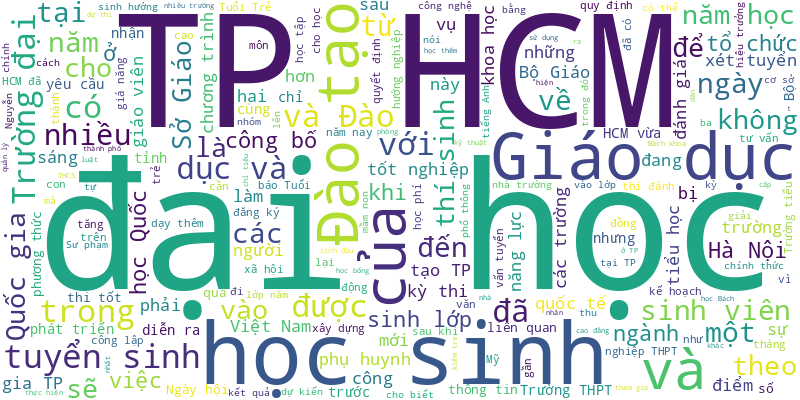
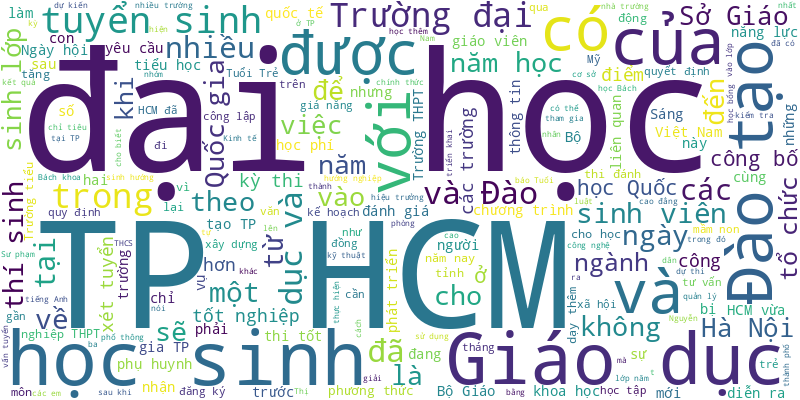
🍀 = 20%

diff --git a/README.md b/README.md
@@ -1,7 +1,22 @@
 # Tuoi Tre RSS 
 
 ## Giáo dục 
-- Chính phủ chính thức trình Quốc hội hai dự thảo nghị quyết về phổ cập giáo dục mầm non cho trẻ 3-5 tuổi; miễn, hỗ trợ học phí cho học sinh.
+- Bắt đầu từ ngày 24-5 đến 17h ngày 29-5, các trường đặc thù, các trường "nóng" ở TP.HCM sẽ nhận hồ sơ xét tuyển.
+- Hè này, Thảo cầm viên tổ chức hơn 20 hoạt động trải nghiệm giúp các em thiếu nhi rèn luyện kỹ năng trong môi trường thiên nhiên trong lành, hướng đến hạn chế sử dụng các thiết bị điện tử như tivi, điện thoại.
+- Nhiều đại biểu Quốc hội băn khoăn về chính sách miễn học phí được giao cho HĐND tỉnh thực hiện, sẽ gây thiếu công bằng khi tỉnh chi ít, tỉnh chi nhiều.
+- Cần tránh việc tổ chức lễ tri ân và trưởng thành rình rang nhằm tạo danh tiếng cho một ngôi trường, hoặc là đẩy cuộc đua ngầm về lối sống ảo, so bì nhau.
+- UBND TP.HCM vừa có văn bản về việc tháo gỡ các vướng mắc liên quan điều kiện thành lập trường tư thục trên địa bàn TP.HCM.
+- 'Khi nghị quyết được Quốc hội thông qua, chúng ta có quyền công bố rộng rãi, chắc chắn chúng ta là nước duy nhất trong ASEAN miễn học phí từ mầm non đến phổ thông'.
+- Nhiều cơ hội đang mở rộng cho học sinh, sinh viên Việt Nam đến học tại Nam Úc. Ngược lại, một số tổ chức giáo dục Nam Úc cũng rất quan tâm đến thị trường TP.HCM.
+- Đại biểu Quốc hội đề nghị cần có cơ chế cho phép phụ huynh tự nguyện không nhận chính sách hỗ trợ, miễn học phí.
+- Nhiều trường đại học quy định đăng ký xét tuyển riêng bắt buộc phải thực hiện mới đủ điều kiện xét tuyển, khiến thí sinh bối rối.
+- Bộ trưởng Nguyễn Kim Sơn cho biết hiện đang triển khai phương án dạy học buổi thứ 2 cho học sinh không thu phí, học phí và sẽ áp dụng từ năm học tới.
+- Năm học 2025 - 2026, Học viện Công nghệ bưu chính viễn thông dự kiến mức học phí 29,6 - 62,5 triệu đồng/năm.
+- Với hơn 1.000 tài khoản đăng ký tham gia, cuộc thi được kỳ vọng sẽ kết nối với hệ sinh thái khởi nghiệp đổi mới của TP.HCM.
+- Cả nước có 28.862 tiến sĩ đang làm giảng viên cơ hữu ở các trường đại học. Bình quân mỗi trường có 119 tiến sĩ.
+- Hàng trăm học sinh lớp 12 tại các tỉnh, thành Tây Nam Bộ nhận học bổng sớm từ Trường Đại học Kinh tế - Tài chính TP.HCM (UEF).
+- Tuyển chọn khoảng 300 ứng viên để đào tạo, bồi dưỡng trong và ngoài nước theo lộ trình trở thành giảng viên, nhà khoa học chất lượng cao.
+- Chính phủ trình Quốc hội hai dự thảo nghị quyết về phổ cập giáo dục mầm non cho trẻ 3-5 tuổi; miễn, hỗ trợ học phí từ năm học 2025-2026.
 - Ngày 22-5, Đại học Bách khoa Hà Nội công bố phương án quy đổi mức điểm chuẩn tương đương giữa 3 phương thức.
 - Trong hành trình chinh phục tri thức, không phải ai cũng may mắn khởi đầu từ những điều kiện thuận lợi. Nhưng ở đâu có ý chí, ở đó luôn có hy vọng.
 - Lễ tốt nghiệp tại Royal School là ngày các em chính thức trưởng thành, mang theo yêu thương của ba mẹ, thầy cô, bạn bè. Từ đây, Royal-ers kiêu hãnh bước ra thế giới với tri thức, bản lĩnh được vun đắp từ ngôi trường hạnh phúc.
@@ -988,24 +1003,86 @@ Trường đại học Văn Lang được QS xếp hạng top 51-100 thế giớ
 - Chủ đề nóng "không dạy thêm đối với học sinh tiểu học" trong thông tư 29 là vấn đề bàn luận sôi nổi của các em học sinh tiểu học tại quận Gò Vấp, TP.HCM.
 - Chiều 22-2, Đại học Quốc gia TP.HCM tổ chức tọa đàm "Liên kết đại học - địa phương - doanh nghiệp: Hợp lực vì sự phát triển kinh tế và xã hội", với sự tham gia của nhiều lãnh đạo bộ ngành, địa phương, doanh nghiệp và hàng trăm giảng viên, sinh viên.
 - Nhiều học sinh lớp 10, 11 có dự định đổi môn học để chọn tổ hợp môn xét tuyển đại học khác. Điều này liệu có ảnh hưởng đến việc xét tuyển đại học, cao đẳng?
-- Khi nào Bộ Giáo dục và Đào tạo công bố quy chế tuyển sinh đại học năm 2025? Quy chế sẽ có điểm mới quan trọng nào đáng lưu ý?
-- Tại Chương trình tư vấn tuyển sinh - hướng nghiệp 2025 do báo Tuổi Trẻ tổ chức ở Phú Yên, gian tư vấn của các trường thu hút đông học sinh đến nghe trực tiếp về chương trình đào tạo, cơ hội việc làm...
-- Một sinh viên năm nhất Trường đại học Kinh tế - Luật (Đại học Quốc gia TP.HCM) vừa nhận lệnh đi nghĩa vụ quân sự,  gia đình phải làm đơn xin tạm dừng học.
-- Khởi đầu năm 2025, sinh viên ngành Quản trị khách sạn của SIU đã có một hành trình kiến tập đặc biệt tại các resort cao cấp ở Mũi Né (TP. Phan Thiết, Bình Thuận).
-- Việt Nam sẽ lần đầu tiên đăng cai Hội nghị quốc tế về trí tuệ nhân tạo và bán dẫn (AISC 2025) - sự kiện hàng đầu thế giới về công nghệ AI và bán dẫn, diễn ra từ 12 đến 16-3 tại Hà Nội và Đà Nẵng.
-- Trong sáng và chiều nay 22-2, chương trình tư vấn tuyển sinh hướng nghiệp 2025 do báo Tuổi Trẻ tổ chức diễn ra tại Phú Yên và Khánh Hòa.
-- Việc Trường Quốc tế Saigon Pearl đóng cửa vì tuyển sinh khó khăn đã đặt ra câu hỏi: mô hình trường quốc tế có bước vào giai đoạn 'thoái trào'?
-- Năm nay, Học viện Cảnh sát nhân dân được Bộ Công an giao tuyển 530 sinh viên đại học chính quy và 150 sinh viên đào tạo học văn bằng 2 nghiệp vụ công an, từ nguồn các thí sinh đã có bằng tốt nghiệp trình độ đại học.
-- Sinh viên khối ngành truyền thông đa phương tiện Trường đại học Nguyễn Tất Thành thực hành tác nghiệp tại chợ Bến Thành.
-- Theo nhiệm vụ quy hoạch chi tiết, Trường đại học Ngoại thương cơ sở Bắc Ninh sẽ nằm ở thành phố Từ Sơn với quy hoạch khoảng 33,66 ha.
-- Đại học Huế có nhiều chính sách hỗ trợ sinh viên được tuyển theo diện xuất sắc, cũng như những sinh viên có hoàn cảnh, điều kiện khó khăn.
-- Trường đại học Sư phạm TP.HCM đã chốt phương án tuyển sinh năm 2025: tiếp tục sử dụng kết quả học tập 3 năm THPT để xét tuyển.
-- Chiều 21-2, Trường phổ thông Năng khiếu (Đại học Quốc gia TP.HCM) đã công bố cấu trúc đề thi và đề thi minh họa - kỳ thi tuyển sinh lớp 10 năm học 2025-2026.
-- Liên quan đến vụ 154 học sinh tại Quảng Bình vẫn chưa trở lại trường từ sau Tết vì cho rằng điểm trường chính xa, chính quyền địa phương đã đưa ra nhiều giải pháp nhưng phụ huynh vẫn chỉ muốn mở cửa trường cũ để cho con em học.
-- Sau khi xem chứng cứ, Phòng Giáo dục và Đào tạo huyện Thoại Sơn, tỉnh An Giang yêu cầu ‘xem xét xử lý sai phạm’ thầy giáo bị tố dâm ô học sinh lớp 5.
 ![Edu](Edu.png)
 ## Thời Sự 
-- Chính phủ chính thức trình Quốc hội hai dự thảo nghị quyết về phổ cập giáo dục mầm non cho trẻ 3-5 tuổi; miễn, hỗ trợ học phí cho học sinh.
+- Theo phản ánh của người dân, nhiều xe máy vẫn dừng chờ đèn đỏ trên vạch mắt võng dành cho xe rẽ phải, có người tỏ thái độ dửng dưng khi được người dân nhắc nhở.
+- Cảnh sát hình sự Công an tỉnh Quảng Trị kể về hành trình truy vết và bắt gọn nghi phạm giết người sau 26 giờ.
+- Để kịp thời tiến độ sắp xếp bộ máy, đến ngày 30-5, các địa phương sẽ tổ chức lấy ý kiến và công nhận việc đổi tên khu phố, ấp.
+- UBND TP.HCM đã xây dựng phương án và lộ trình bố trí, sắp xếp cán bộ, công chức, viên chức, người lao động sau sáp nhập.
+- Với việc ngày càng nhiều thủ tục hành chính công được thực hiện hoàn toàn trên môi trường mạng, chữ ký số cũng ngày càng được nhiều người dân, doanh nghiệp sử dụng.
+- Xe khách biển số tỉnh Lâm Đồng đang chạy trên quốc lộ 1 (địa phận tỉnh Khánh Hòa) bất ngờ cháy dữ dội khiến nhiều người phải tháo chạy.
+- Ổ mây dông từ Trung Quốc phát triển gây mưa to tại các tỉnh Hà Giang, Lào Cai, Tuyên Quang, Bắc Kạn từ đêm qua đến sáng nay.
+- Thông tin TP.HCM sẽ thu phí tiền rác theo kilogam (kg) đang tạo ra nhiều băn khoăn. Nhiều người đang hiểu chưa đúng tinh thần này nên nghi ngại: tôi không có mặt ở nhà làm sao cân, hoặc lo người khác bỏ rác qua nhà mình…
+- Tin tức đáng chú ý: Lắp camera, vệ sinh toàn bộ hầm chui trước bến xe Miền Đông mới để tránh ngập; Bốn tháng, gần 17.700 tỉ đồng chậm đóng bảo hiểm xã hội, y tế, thất nghiệp...
+- Hôm nay 23-5, thời tiết Bắc Bộ có mưa to đến rất to. Nam Bộ mưa to về chiều, Trung Bộ phía bắc mưa to, phía nam nắng nóng.
+- Liên quan việc Công ty cổ phần Cấp thoát nước Quảng Nam áp dụng đơn giá nước sạch mới trong tháng 5, giá nước tăng, tỉnh Quảng Nam yêu cầu kiểm tra.
+- Nam sinh 20 tuổi ở Hà Nội bị lừa 500 triệu đồng sau khi nhận cuộc gọi video từ kẻ giả danh công an, dọa liên quan vụ án ma túy, đọc lệnh bắt online.
+- Tổng Bí thư Tô Lâm yêu cầu không để xảy ra tình trạng cán bộ vừa mới bổ nhiệm lại bị xử lý kỷ luật hoặc truy cứu trách nhiệm hình sự.
+- Lực lượng chức năng đã khoanh vùng, bảo vệ hiện trường nơi người dân phát hiện một bộ xương người tại vực sâu trên tuyến đèo Bảo Lộc, tỉnh Lâm Đồng.
+- Công dân phản ánh, kiến nghị Công an tỉnh Khánh Hòa và UBND tỉnh làm rõ thái độ của cán bộ, chiến sĩ Công an phường Ninh Hà, thị xã Ninh Hòa khi người dân đến làm thủ tục VNeID tại trụ sở công an phường này.
+- Trong cuộc họp giữa hai tỉnh Cà Mau và Bạc Liêu bàn về các phương án sau khi hợp nhất, một số đại biểu đề xuất giữ nguyên trạng 7 công ty nhà nước của 2 tỉnh, trong đó có Công ty Xổ số kiến thiết Cà Mau và Bạc Liêu.
+- Tối 22-5, Cơ quan cảnh sát điều tra Công an tỉnh Đồng Nai thông tin đã bắt khẩn cấp ông Nguyễn Thành Dân - chủ tịch UBND phường Trảng Dài, TP Biên Hòa - cùng 2 cán bộ, công chức phường.
+- Nhiều dự án năng lượng tái tạo ở Ninh Thuận chậm tiến độ do vướng mắc về khung giá điện, đặc biệt với các dự án điện gió và thủy điện tích năng.
+- Ông Nguyễn Quốc Hận, phó trưởng Đoàn đại biểu Quốc hội tỉnh Cà Mau, chỉ ra bất cập khi tồn tại lượng lớn diện tích đất hoang hóa tại các địa phương.
+- Theo thống kê của Trung tâm Kiểm soát bệnh tật TP.HCM, số ca mắc và nhập viện do tay chân miệng đang gia tăng nhanh chóng, cảnh báo nguy cơ dịch.
+- Bài học từ nhiều vụ việc khiến nhiều cán bộ bị xử lý, kỷ luật, kể cả xử lý hình sự, Thủ tướng cho rằng có nguyên nhân từ việc cấp trên 'ôm' cả những việc cụ thể mà không phân cấp, phân quyền cho cấp dưới.
+- Lễ tang nguyên Chủ tịch nước Trần Đức Lương được tổ chức theo nghi thức Quốc tang, diễn ra từ ngày 24 đến 25-5.
+- Nhiều đại biểu Quốc hội băn khoăn về chính sách miễn học phí được giao cho HĐND tỉnh thực hiện, sẽ gây thiếu công bằng khi tỉnh chi ít, tỉnh chi nhiều.
+- Giữa biên giới xa xôi, nơi “phên giậu” Tổ quốc, hình ảnh người chiến sĩ công an lặng lẽ vượt núi, băng suối, cùng dân dựng nhà, tuyên truyền pháp luật, vận động từ bỏ tà đạo đã trở nên thân thuộc.
+- Sau khi nhà ga T3 Tân Sơn Nhất và đường nối Trần Quốc Hoàn đưa vào khai thác, giao thông khu vực đã cơ bản thông thoáng. Tuy nhiên nhiều người dân vẫn đi sai làn, mất an toàn giao thông.
+- Bước vào kỷ nguyên vươn mình, nhiều lãnh đạo Bộ Y tế cho rằng các bệnh viện phải áp dụng những tiêu chuẩn chất lượng quốc tế để đạt được sự an toàn, hài lòng cho người bệnh.
+- Vành đai 3 TP.HCM qua Long An đang thành hình rõ nét, đáng chú ý đoạn nút giao Mỹ Yên - điểm kết nối ba tuyến cao tốc lớn.
+- Từ ngày 25-5, hai đoàn tàu liên vận chở khách từ ga Gia Lâm (Hà Nội) đến ga Nam Ninh (Trung Quốc) và ngược lại. Đến ngày 27-5, sẽ khai thác thêm tàu từ ga Gia Lâm (Hà Nội) đến ga Bắc Kinh (Trung Quốc).
+- Hơn 100 KOL đăng ký lớp bồi dưỡng nghiệp vụ bán hàng trên mạng do Trung tâm Báo chí TP.HCM phối hợp với Công an TP, Cục Thuế TP, Sở Công Thương, Sở Y tế, Sở An toàn thực phẩm tổ chức.
+- Bộ Xây dựng yêu cầu tỉnh Đắk Lắk khẩn trương hoàn tất toàn bộ dự án đội vốn, chậm tiến độ trước ngày 30-6, nhằm kịp thời đưa vào khai thác trước mùa mưa.
+- Chiều 22-5, cơn mưa rất lớn đổ xuống một số khu vực ở Đồng Nai khiến nhiều tuyến đường ở huyện Nhơn Trạch và thành phố Long Khánh ngập sâu.
+- Tỉnh ủy Quảng Trị vừa ra quyết định thành lập Báo và Đài phát thanh - truyền hình tỉnh Quảng Trị, trên cơ sở hợp nhất 2 cơ quan từ ngày 1-6.
+- Cục Cảnh sát quản lý hành chính về trật tự xã hội cho biết từ hôm nay 22-5, người dân đã có thể đăng ký chứng thư chữ ký số trên ứng dụng VNeID.
+- Xe tải chạy trên đường Đỗ Mười, phường Tam Bình, TP Thủ Đức (TP.HCM) tông xe máy khiến hai người tử vong, rồi tiếp tục lao tới tông hai ô tô và xe máy khác mới dừng lại.
+- Nếu bị gọi nhá máy liên tục, có dấu hiệu lừa đảo hoặc gây thiệt hại tinh thần, vật chất, người dân nên trình báo cơ quan công an địa phương để được hỗ trợ, xử lý theo quy định.
+- 'Khi nghị quyết được Quốc hội thông qua, chúng ta có quyền công bố rộng rãi, chắc chắn chúng ta là nước duy nhất trong ASEAN miễn học phí từ mầm non đến phổ thông'.
+- Bộ Y tế đang dự thảo thông tư hướng dẫn chức năng, nhiệm vụ của trạm y tế xã, phường tương tự một bệnh viện thu nhỏ.
+- Viện Nghiên cứu phát triển TP.HCM cho rằng bên cạnh các chính sách hỗ trợ, TP.HCM nên kiến nghị Trung ương miễn thuế VAT với tài xế công nghệ chạy xe điện trong vòng 2 năm, để khuyến khích chuyển xe xăng sang xe điện.
+- Công an tỉnh Kiên Giang vừa phát hiện một cơ sở cầm cố tài sản ở Phú Quốc không có giấy phép hoạt động, cho vay và tàng trữ nhiều dao tự chế.
+- UBND tỉnh Bình Định vừa ra quyết định chấm dứt dự án kè chống xói lở Tam Quan sau nhiều lần hư hỏng, thiệt hại nặng do sóng biển.
+- Sở Tài chính Khánh Hòa đã có phương án bố trí trụ sở làm việc, nhà ở công vụ, phương tiện đi lại cho cán bộ sau khi sáp nhập hai tỉnh Khánh Hòa và Ninh Thuận.
+- Tại 2 gói thầu xây dựng trụ sở UBND xã và đường giao thông, Thanh tra tỉnh Quảng Trị kết luận có nhiều vi phạm như tổ trưởng tổ chuyên gia chấm thầu cho công ty bố vợ, bên dự thầu cung cấp hồ sơ giả…
+- Đại biểu Quốc hội đề nghị cần có cơ chế cho phép phụ huynh tự nguyện không nhận chính sách hỗ trợ, miễn học phí.
+- TP Tuy Hòa gắn biển "Quảng trường Phú Yên" cho quảng trường 1 Tháng 4. Việc đổi tên đã được tỉnh bàn bạc, thống nhất trước đó.
+- Bộ trưởng Nguyễn Kim Sơn cho biết hiện đang triển khai phương án dạy học buổi thứ 2 cho học sinh không thu phí, học phí và sẽ áp dụng từ năm học tới.
+- Theo Sở An toàn thực phẩm TP.HCM, khi đi kiểm tra các quán bán lòng se điếu tại TP.HCM, các nơi đều thông báo đã hết hàng.
+- Chi cục Quản lý thị trường TP.HCM đã có văn bản chỉ đạo đội quản lý thị trường thẩm tra, xác minh chi nhánh Công ty cổ phần Thương mại và Dịch vụ Hà Linh Official theo đơn phản ánh. Tuy nhiên đến nay chưa đủ cơ sở để cung cấp thông tin chính thức.
+- Chính quyền địa phương kiểm tra một cơ sở ở huyện Quỳnh Lưu, Nghệ An quảng cáo chữa ung thư bằng cách uống nước lọc ion kiềm.
+- Nguyên Chủ tịch nước Trần Đức Lương luôn căn dặn chính quyền phải gần dân, sát dân, thương dân, lo cho dân từ những việc nhỏ.
+- 2-3 tuần gần đây, số ca mắc COVID-19 có tăng lên. Tuy nhiên chủng Omicron XEC không phải là biến chủng mới, thuộc nhóm nguy cơ thấp.
+- Ngày 22-5, Bộ Công an phối hợp tỉnh Bạc Liêu tổ chức khánh thành và bàn giao 700 căn nhà cho hộ nghèo, cận nghèo và khó khăn tại tỉnh này.
+- Nhiều doanh nghiệp khai thác cát tại Đắk Nông bị phát hiện tự ý mở đường phụ, dựng rào chắn camera, có dấu hiệu trốn thuế.
+- Ngày 22-5, Bệnh viện Đa khoa trung ương Quảng Nam cho hay hiện đang điều trị cho 2 người, 1 người khác chuyển viện Bệnh viện Đà Nẵng.
+- Đề xuất tăng mức phạt vi phạm giao thông tối đa từ 75 triệu đồng lên 200 triệu đồng của đại biểu Quốc hội thu hút nhiều ý kiến bạn đọc phản hồi.
+- Bí thư Thành ủy TP.HCM Nguyễn Văn Nên chủ trì phiên họp thứ nhất của Ban Chỉ đạo phát triển hệ thống mạng lưới đường sắt đô thị TP.HCM.
+- Sau khi sắp xếp xã mới, UBND xã ở Đà Nẵng có tối đa 4 phòng chuyên môn. Bố trí 1 công chức đang công tác tại thanh tra quận, huyện.
+- Dự án chợ đầu mối Hòa Phước (TP Đà Nẵng) với tổng mức đầu tư hơn 272 tỉ đồng bước vào giai đoạn đấu thầu xây lắp.
+- Biến chủng Omicron XEC hiện đang lây lan ở nhiều nước trên thế giới, làm gia tăng số ca mắc COVID-19 mới.
+- Sáng 22-5, Phòng cảnh sát giao thông Công an tỉnh Đắk Lắk tổ chức kỳ sát hạch, cấp giấy phép lái ô tô hạng B cho 202 học viên.
+- Ông Trần Đức Lương là nhà lãnh đạo kỹ trị, không ưa hào nhoáng, không chạy theo hình thức, mà chọn cách sống, làm việc thầm lặng, bền bỉ.
+- Việc bỏ hình phạt tử hình tội vận chuyển trái phép chất ma túy có thể ảnh hưởng đến tính răn đe.
+- Thành phố Hội An đang chạy đua hoàn thiện dự án phòng cháy, chữa cháy trị giá 200 tỉ đồng, áp dụng nhiều công nghệ, đi tới từng di tích.
+- Những ngày gần đây, trên mạng xã hội xuất hiện hình ảnh nền đá tại nhà ga T3 Tân Sơn Nhất vẫn còn dang dở dù nhà ga đã đưa vào khai thác.
+- Thanh tra Bộ Công an, Bộ Quốc phòng và Ngân hàng Nhà nước giữ lại phù hợp với tính đặc thù, mô hình tổ chức ngành dọc của các ngành này.
+- Họ ký vào đơn vay vốn được lập khống đã vô tình tạo điều kiện để cán bộ văn phòng giao dịch Quỹ phát triển phụ nữ Hương Khê lợi dụng.
+- Dù đã có chủ trương đầu tư hơn 93 tỉ đồng để chống ngập, dự án xây đường Đặng Thùy Trâm (quận Bình Thạnh) vẫn chưa được khởi động.
+- Thợ lặn được triển khai tìm kiếm 2 cháu mất tích trong vụ 7 học sinh đi tắm suối bị lũ cuốn ở Quảng Ninh.
+- Qua đánh giá của Nghệ An liên quan việc hàng ngàn héc ta lúa lép, không kết hạt cao có 10 giống lúa nằm ngoài cơ cấu.
+- Anh T. nhảy từ trên cầu vượt xuống đường cao tốc, bị nhiều ô tô cán qua người, thiệt mạng tại chỗ.
+- Sau gần ba ngày "mất tích", gia đình đã tìm thấy nữ sinh lớp 9 ở Quảng Bình tại Hà Nội trong tình trạng sức khỏe và tinh thần ổn định.
+- Cục trưởng Cục Trồng trọt và Bảo vệ thực vật thông tin về kiểm soát kim loại nặng trong sầu riêng, nhất là dư lượng chất vàng O, cadimi.
+- Theo Bộ Công Thương, Việt Nam và Mỹ đã đạt tiến bộ tích cực, xác định các nhóm vấn đề đạt được đồng thuận hoặc quan điểm đã gần nhau.
+- Tại sao chúng ta không có những quy định thoáng hơn để làm sao có thể thanh tra đột xuất được nhiều hơn là thanh tra kế hoạch.
+- Đi lại qua hầm sông Sài Gòn (nối TP Thủ Đức và quận 1, TP.HCM), tài xế cần chú ý bảng thông báo tốc độ ở hai đầu hầm.
+- Nha Trang đang lấy ý kiến để “điều chỉnh cục bộ” đồ án điều chỉnh quy hoạch chung TP này tại 4 khu vực.
+- Chỉ số KPI được xem là một phương pháp nhằm lượng hóa công việc để chấm điểm và đánh giá hiệu quả hoạt động.
+- Theo Luật Bảo hiểm xã hội 2024, sẽ có mức hưởng bảo hiểm xã hội một lần mới từ ngày 1-7-2025.
+- Chính phủ trình Quốc hội hai dự thảo nghị quyết về phổ cập giáo dục mầm non cho trẻ 3-5 tuổi; miễn, hỗ trợ học phí từ năm học 2025-2026.
 - Buôn Ma Thuột đặc biệt chú trọng xây dựng Đảng và nâng cao chất lượng đội ngũ cán bộ là chìa khóa then chốt thúc đẩy sự phát triển bền vững.
 - Chiếc ô tô 7 chỗ biển số tỉnh Bến Tre chạy trên cầu Rạch Miễu bất ngờ lấn sang làn xe máy khiến người đi đường suýt bị tai nạn.
 - Mức phạt hiện nay đã đủ mạnh? Mức phạt các hành vi bất chấp pháp luật đã đủ để răn đe?
@@ -1928,83 +2005,6 @@ Trường đại học Văn Lang được QS xếp hạng top 51-100 thế giớ
 - Lần đầu tiên Hải Phòng dẫn đầu cả nước về chỉ số năng lực cạnh tranh cấp tỉnh (PCI). Hai đô thị lớn nhất cả nước là Hà Nội, TP.HCM thuộc top 30 địa phương có chất lượng điều hành kinh tế tốt nhất.
 - Qua thanh tra 18 công trình xây dựng ở huyện Ngọc Hiển, Thanh tra tỉnh Cà Mau phát hiện 8 công trình có sai sót về khối lượng và thủ tục đầu tư.
 - Ngày 6-5, theo thông tin từ Bệnh viện Đa khoa trung ương Cần Thơ, hiện tại bệnh nhân Nguyễn Bảo Trung (tài xế xe tải, liên quan vụ tai nạn ở Trà Ôn, tỉnh Vĩnh Long) vẫn chưa tỉnh táo, đang tiếp tục được theo dõi tại khu hồi sức sau mổ.
-- Bộ trưởng Nguyễn Kim Sơn nêu rõ quan điểm với một số địa phương có điều kiện rất nên khuyến khích dành thêm nguồn lực để hỗ trợ nhà giáo.
-- Sau vụ việc ‘nộp đủ tiền mới cấp cứu’, nhiều người cho biết từng gặp khó khăn khi ứng viện phí, bên cạnh đó một số bạn đọc bày tỏ nên cảm thông với nhân viên y tế.
-- Liên quan vụ việc một nhân viên bảo vệ rừng ở Vườn quốc gia Cát Tiên bị bò tót húc chết, có ý kiến cho rằng cần trang bị thêm kỹ năng, thiết bị kỹ thuật để xử lý các tình huống xấu.
-- Tuyến đường sắt kết nối từ trung tâm đi đến khu đô thị lấn biển Cần Giờ có chiều dài khoảng 48,7km.
-- Cục Thống kê cho biết số doanh nghiệp rút lui khỏi thị trường trên cả nước 4 tháng đầu năm nay khoảng 96.500 doanh nghiệp, cao hơn rất nhiều số doanh nghiệp gia nhập thị trường khoảng 89.900 doanh nghiệp.
-- UBND tỉnh Đắk Lắk đã chi gần 8,5 tỉ đồng để hỗ trợ cho 6 nguyên lãnh đạo sở, trong đó một người nhận hơn 2,2 tỉ đồng tiền chế độ khi nghỉ hưu trước tuổi.
-- Hiện tỉnh Sóc Trăng có trên 7.000 học viên đang đợi thi sát hạch lấy bằng lái xe, trong đó có 4.000 học viên xe gắn máy và trên 3.000 học viên xe ô tô.
-- Đại biểu Trần Khánh Thu cho rằng cần nhìn nhận vấn đề học thêm xuất phát từ nhu cầu học tập của xã hội, học sinh và phụ huynh, chứ không hẳn tất cả quy cho giáo viên ép buộc trong vấn đề dạy thêm.
-- Sáng nay thời tiết TP.HCM có mưa sớm, nhiều nơi mưa như trút lúc 9h30 sáng.
-- Trung tâm Bảo tồn di tích cố đô Huế đã có thông báo xin lỗi, mong khán giả cảm thông sau sự cố bắn súng thần công rơi ‘lạc’ vào vị trí khán giả hôm 3-5.
-- Theo Thủ tướng, nhiệm vụ, giải pháp tập trung hiện nay là để hoàn thành mục tiêu đạt mức tăng trưởng 8% trở lên, phát triển nhanh, bền vững, toàn diện, bao trùm.
-- Mẹ Việt Nam anh hùng Lê Thị Trị, con gái cả của Mẹ Việt Nam anh hùng Nguyễn Thị Thứ qua đời, hưởng thọ 106 tuổi.
-- Từ ngày 1-7-2025, người trên 60 tuổi đến tuổi nghỉ hưu nhưng chưa đủ số năm đóng bảo hiểm xã hội sẽ được nhận trợ cấp hằng tháng.
-- Một dự án nghiên cứu không đạt được kết quả như kỳ vọng, tổ chức nghiên cứu sẽ không phải chịu trách nhiệm bồi thường như trước và được miễn trừ trách nhiệm dân sự.
-- Nguyễn Thiên Hương Jenny, Nguyễn Đức Hiếu Johnny vừa gia tăng số lượng cổ phiếu tại ACB, qua đó tăng tỉ lệ sở hữu tại ngân hàng này. Cả hai đều là con của bà Ngô Thu Thúy - chủ tịch HĐQT Công ty cổ phần Âu Lạc.
-- Dự kiến từ hôm nay (6-5) bắt đầu lấy ý kiến nhân dân về việc sửa đổi, bổ sung một số điều của Hiến pháp năm 2013 và sẽ kéo dài trong khoảng một tháng.
-- Chính phủ đã hoàn thành rà soát và đang đề xuất Bộ Chính trị, Quốc hội tháo gỡ vướng mắc cho trên 2.200 dự án với tổng vốn gần 5,9 triệu tỉ đồng (tương đương khoảng 235 tỉ USD) và tổng quy mô sử dụng đất khoảng 347.000ha.
-- Dự thảo nghị quyết sửa đổi, bổ sung một số điều của Hiến pháp năm 2013 đề xuất Thủ tướng chỉ định chủ tịch, phó chủ tịch UBND các tỉnh, TP sau sáp nhập.
-- Người dân có thể góp ý trực tiếp về sửa Hiến pháp trên VNeID, Cổng thông tin điện tử Quốc hội, Chính phủ hoặc gửi ý kiến bằng văn bản đến các cơ quan có trách nhiệm tổng hợp ý kiến.
-- 23 tuổi, Hậu 'Pháo' bắt đầu thành lập doanh nghiệp với quy mô ban đầu chỉ ở cấp huyện. Chỉ bốn năm sau, Hậu bắt đầu nổi danh trong giới bất động sản và bắt đầu thiết lập mối quan hệ với một số bí thư, chủ tịch tỉnh để thâu tóm nhiều dự án.
-- Dư luận đang xôn xao về món lòng se điếu với nghi vấn được "phù phép" từ lòng heo bình thường và ngâm hóa chất gây hại sức khỏe.
-- Ba dự án ì ạch ở Cần Thơ vừa bị Thủ tướng 'điểm danh' tại buổi tiếp xúc cử tri Cần Thơ mới đây vẫn đang rất... ì ạch.
-- Tin tức đáng chú ý: Năm 2025 dự kiến quy mô kinh tế Việt Nam trên 500 tỉ USD, bình quân 5.000 USD/người; Bệnh viện K phát động phong trào 'Găng tay không thay vệ sinh tay'; 2 công ty chứng khoán liên hệ với HoSE để hỗ trợ ngày KRX 'go-live'...
-- Hôm nay 6-5, thời tiết Bắc Bộ nắng nóng diện rộng, có nơi nắng gay gắt, Nam Bộ ngày nắng, chiều tối mưa rào và dông.
-- Tổng thống Sri Lanka đánh giá cao việc Việt Nam là mô hình phát triển kinh tế thành công, bày tỏ mong muốn học tập những kinh nghiệm này từ Việt Nam.
-- Qua khảo sát hơn 4.500 nhà thuốc trên địa bàn TP.HCM, phát hiện một cơ sở tại quận Bình Thạnh kinh doanh sữa giả.
-- Tổng Bí thư Tô Lâm và Phu nhân đã đến Astana. Tổng thống Kazakhstan đã ra tận sân bay đón nhà lãnh đạo Việt Nam.
-- Chủ tịch Quốc hội Trần Thanh Mẫn yêu cầu từ ngày mai (6-5) sẽ tổ chức công bố lấy ý kiến nhân dân về sửa đổi, bổ sung một số điều của Hiến pháp 2013.
-- Do nhiệm kỳ Quốc hội cách xa thời gian Đại hội Đảng nên sau Đại hội Đảng, Quốc hội thường tiến hành kỳ họp bất thường để kiện toàn các chức danh Nhà nước.
-- Phó chủ tịch UBND TP.HCM Võ Văn Hoan vừa ký ban hành đề án sắp xếp tỉnh Bà Rịa - Vũng Tàu, tỉnh Bình Dương và TP.HCM. Sau sắp xếp, TP.HCM mới có 113 phường, 54 xã và đặc khu Côn Đảo.
-- Cơ quan công an đề nghị cung cấp hồ sơ xây dựng có dấu hiệu sai phạm tại khách sạn Mường Thanh Buôn Ma Thuột, Đắk Lắk.
-- Khi xe di chuyển từ vòng xoay Kim Cúc hướng về hồ Xuân Hương (Đà Lạt), tài xế taxi vừa lái xe vừa gác chân lên cửa.
-- Bạc Liêu và Cà Mau đưa ra 3 kịch bản tăng trưởng cho tỉnh Cà Mau (mới), nhằm có những giải pháp phát triển kinh tế - xã hội phù hợp.
-- Việc sửa đổi dự án Luật Năng lượng nguyên tử (sửa đổi) nhằm đáp ứng yêu cầu phát triển và xã hội hóa ứng dụng năng lượng nguyên tử, triển khai các dự án điện hạt nhân.
-- Ngày 5-5, Phòng cảnh sát hình sự Công an tỉnh Quảng Nam cho biết cơ quan này đã tạm giữ 11 người liên quan đến các hành vi bắt cóc nhằm chiếm đoạt tài sản và đánh bạc.
-- Chủ tịch nước Lương Cường và Tổng thống Sri Lanka Anura Kumara Dissanayaka đều cho rằng tiềm năng hợp tác kinh tế, thương mại giữa hai nước còn rất lớn. Trước mắt, hai bên phấn đấu đạt 1 tỉ USD kim ngạch thương mại song phương.
-- Một người đàn ông ở huyện Krông Năng (Đắk Lắk) tử vong sau khi bị xe taxi tông từ phía sau trên đường liên xã.
-- Các doanh nghiệp thủy sản Việt Nam đang tăng tốc xuất khẩu sang Mỹ trong hai tháng tới, nhằm 'chạy đua' với chính sách thuế quan mới có hiệu lực từ ngày 9-7. Tôm và cá tra là hai mặt hàng chủ lực trong giai đoạn nước rút này.
-- Ông ngoại chở cháu trên xe máy đều tử vong vì tai nạn giao thông. Đáng chú ý, người ông bị tai nạn tử vong được cơ quan điều tra xác định là 'người có hành vi nguy hiểm cho xã hội đã chết' nên không khởi tố vụ án.
-- Hồ chứa nước ngọt tại xã Khánh An, huyện U Minh, Cà Mau đã hoàn thành với diện tích 102ha, chứa được 3,85 triệu m3 nước. Tuy nhiên người dân sống gần hồ vẫn thiếu nước do chưa có nhà máy xử lý  và 'kịch bản' vận hành vẫn đang... viết.
-- Lực lượng cảnh sát đã bắt quả tang 19 người tham gia đá gà ăn thua bằng tiền qua mạng. Số tiền thu giữ trên người các nghi phạm hơn 10 triệu đồng. Cảnh sát đã cho gia đình các con bạc bảo lãnh để tiếp tục điều tra.
-- Chủ tịch Quốc hội Trần Thanh Mẫn làm chủ tịch Ủy ban Dự thảo sửa đổi, bổ sung một số điều của Hiến pháp năm 2013.
-- Tổ chức, cá nhân cung cấp dịch vụ mạng xã hội, dịch vụ truyền thông trực tuyến không được yêu cầu hình ảnh, video chứa nội dung đầy đủ hoặc một phần căn cước, căn cước công dân, chứng minh nhân dân làm yếu tố xác thực tài khoản.
-- Đài khí tượng thủy văn Nam Bộ và Tây Nguyên cho biết một số nơi Nam Bộ đã vào mùa mưa.
-- Con rùa biển bị dính 'lưới ma' trôi dạt trên biển được ngư dân Lý Sơn cứu. Thời điểm cứu, chú rùa xanh quý hiếm dính lưới bị thương, hai chi trước bị lưới siết chặt gây lõm thịt.
-- Thông tin từ Bộ Nội vụ cho biết đến thời điểm hiện tại, tất cả các tỉnh, thành phố đã gửi hồ sơ đề án sáp nhập đơn vị hành chính (đơn vị) cấp tỉnh, cấp xã.
-- Ô tô chở đoàn người đưa tang bốc cháy ngùn ngụt trên cao tốc Nội Bài - Lào Cai vào chiều 5-5. Tài xế và những người trên ô tô đã kịp thoát ra ngoài, chạy xuống lề đường.
-- Nông dân trồng lúa gần cao tốc Cần Thơ - Cà Mau, đoạn qua huyện Long Mỹ, tỉnh Hậu Giang đã được nhà thầu bồi thường thiệt hại.
-- Trưa 5-5, sau cuộc hội đàm thành công, Chủ tịch nước Lương Cường và Tổng thống Sri Lanka Anura Kumara Dissanayaka đã tới thăm Khu di tích Chủ tịch Hồ Chí Minh, trong đó có nhà sàn Bác Hồ.
-- Trưa 5-5, Tổng Bí thư Tô Lâm và Phu nhân rời Hà Nội, bắt đầu chuyến công tác đến Nga, Kazakhstan, Azerbaijan và Belarus. Đây là 4 nước bạn bè truyền thống, có quan hệ hữu nghị lâu đời với Việt Nam.
-- Chính phủ dự kiến sẽ thực hiện kinh phí 44.000 tỉ đồng phục vụ cho việc triển khai chủ trương sắp xếp, tổ chức lại đơn vị hành chính các cấp.
-- Cơ quan chức năng xác định có 1 người tử vong và 3 người bị thương trong vụ nổ lớn ở TP Phổ Yên, tỉnh Thái Nguyên xảy ra sáng nay 5-5.
-- Xe công cho cấp xã là cần thiết, làm thế nào để sử dụng xe công hợp lý, hiệu quả và tiết kiệm?
-- Ngày 5-5, Sở Y tế tỉnh Nam Định đã có báo cáo liên quan đến công tác khám, cấp cứu cho cháu bé 4 tuổi bị tai nạn giao thông trong clip tố bệnh viện ‘nộp đủ tiền mới cấp cứu’.
-- Tổng Bí thư Tô Lâm nêu rõ lần sửa này chỉ sửa đổi một số điều của Hiến pháp nhưng các cơ quan soạn thảo, Quốc hội, Chính phủ đã chuẩn bị hết sức chu đáo.
-- Ủy ban Thường vụ Quốc hội trình Quốc hội tờ trình về việc sửa đổi, bổ sung một số điều của Hiến pháp năm 2013 và thành lập Ủy ban Dự thảo sửa đổi, bổ sung một số điều của Hiến pháp.
-- Trên mạng xã hội đang chia sẻ đoạn clip ghi lại cảnh một tài xế GrabBike bị một người đàn ông (là hành khách) dùng mũ bảo hiểm đánh tới tấp giữa đêm ở Đà Nẵng.
-- Nghị quyết mới của Bộ Chính trị được Tổng Bí thư Tô Lâm ký ban hành nhấn mạnh kinh tế tư nhân là  một động lực quan trọng nhất của nền kinh tế quốc gia.
-- Đoàn Chủ tịch Ủy ban Trung ương Mặt trận Tổ quốc Việt Nam đề nghị sớm ban hành chính sách hỗ trợ cho cán bộ, công chức, viên chức phải di chuyển nơi ở đến làm việc ở trung tâm hành chính mới.
-- Nhiều biển hiệu quảng cáo cửa hàng tạp hóa, quán cơm, cửa hàng kinh doanh ở huyện Anh Sơn, Nghệ An có nội dung trang website cờ bạc, cá cược bóng đá.
-- Cảnh sát giao thông Đà Nẵng sẽ tiến hành tổ chức sát hạch lái xe cơ giới đường bộ từ ngày 6-5. Đây là lần đầu tiên đơn vị này thực hiện việc sát hạch, cấp bằng lái xe.
-- Lễ đón chính thức Tổng thống Sri Lanka Anura Kumara Dissanayaka diễn ra trang trọng tại Phủ Chủ tịch, dưới sự chủ trì của Chủ tịch nước Lương Cường sáng 5-5.
-- Trước việc Mỹ công bố chính sách thuế quan mới, chúng ta đã bình tĩnh, bản lĩnh, chủ động tiến hành đồng bộ nhiều biện pháp ứng phó và đạt kết quả bước đầu tích cực.
-- Sáng 5-5, người dân phát hiện cô giáo một trường tiểu học tại xã Krong (huyện Kbang, tỉnh Gia Lai) nằm chết bên đường với nhiều vết thương nghi bị dao đâm.
-- Thủ tướng Phạm Minh Chính vừa ký ban hành văn bản số 500 về việc phân định thẩm quyền giải quyết thủ tục hành chính của chính quyền cấp huyện.
-- Nhiều cán bộ, đảng viên đã tự nguyện hy sinh quyền lợi cá nhân vì sự phát triển chung của cơ quan, đơn vị mình, vì sự phát triển của đất nước.
-- Luật sửa đổi, bổ sung một số điều của Luật Bảo hiểm y tế (năm 2024) có hiệu lực từ ngày 1-7 có nhiều thay đổi liên quan đến người tham gia bảo hiểm y tế.
-- Chủ tịch UBND TP Hà Nội Trần Sỹ Thanh giao UBND quận Bắc Từ Liêm chủ trì, phối hợp đơn vị liên quan khẩn trương kiểm tra, làm rõ thông tin báo chí phản ánh về việc dòng mương Hoàng Quốc Việt - Trần Đăng Ninh chảy qua khu dân cư ô nhiễm nghiêm trọng.
-- Trước thềm khai mạc, các đại biểu cùng đòi hỏi chính mình và kỳ vọng Quốc hội sẽ phát huy hết tâm huyết, trách nhiệm để có các quyết định quan trọng, đúng đắn trong một "kỳ họp lịch sử" vì sự phát triển vững chắc của đất nước trong kỷ nguyên mới.
-- Sáng 5-5, ngày đầu đi làm sau lễ, hàng nghìn người trở lại công việc, học sinh đi học,... khiến nhiều ngả đường ở TP.HCM xảy ra tình trạng kẹt xe nghiêm trọng.
-- Sáng 5-5, trước giờ khai mạc kỳ họp thứ 9, Quốc hội khóa XV, các đại biểu Quốc hội đến đặt vòng hoa và vào lăng viếng Chủ tịch Hồ Chí Minh.
-- Sáng nay 5-5, kỳ họp thứ 9, Quốc hội khóa XV khai mạc trọng thể. Kỳ họp được đánh giá là kỳ họp 'lịch sử' của Quốc hội.
-- Bộ Y tế yêu cầu trong tháng 6 này, các đơn vị phải hoàn thành việc kết cấu chi phí ứng dụng công nghệ thông tin vào viện phí.
-- Sáng 5-5, kỳ họp thứ 9, Quốc hội khóa XV sẽ chính thức khai mạc. Kỳ họp xem xét, quyết định nhiều nội dung quan trọng, trong đó có sửa Hiến pháp, sáp nhập tỉnh.
-- Hôm nay 5-5, các tỉnh Trung Bộ nắng nóng tới nắng nóng gay gắt, Bắc Bộ nắng nóng, còn Nam Bộ ngày nắng, chiều tối mưa rào tới mưa to.
-- Cơ cấu cổ đông của VNPAY được cập nhật gần đây với sự thay đổi đáng kể. Theo đó, "ông lớn" trung gian thanh toán này do Công ty cổ phần Tập đoàn Cuộc sống Việt nắm tới 99,99% vốn điều lệ.
-- Chủ tịch Quốc hội Trần Thanh Mẫn nhấn mạnh kỳ họp thứ 9 là kỳ họp có ý nghĩa lịch sử, quyết định những vấn đề mang tính lịch sử cho sự phát triển của đất nước.
 ![New](News.png)
 ## Nhịp sống số 
 - Thủ tướng Phạm Minh Chính vừa yêu cầu các bộ ngành triển khai chiến dịch tổng rà soát tài khoản ngân hàng, sim điện thoại để phòng ngừa tội phạm lừa đảo trực tuyến.
